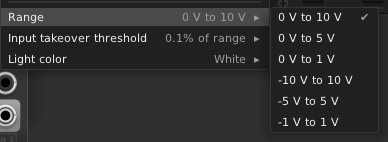
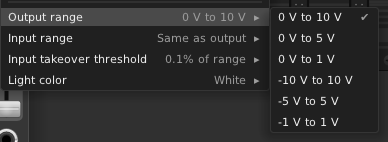
Fader input range, Buttons off color
Fader/Faders2/Faders4: new per-fader "Input range" (default "Same as
output"), so e.g. a 0..10 V MIDI CC can sweep a -10..10 V fader end to
end; "Range" renamed "Output range". The takeover threshold is now a
fraction of the input range. Saved as "inputRange"; older patches keep
the previous behavior.

Buttons: "Light color" split into "On color" and "Off color". Off color
defaults to the existing faint glow of the on color, or any of the eight
colors at full brightness. Saved as "offColor".

README, module descriptions and menu screenshots updated.

diff --git a/src/Fader.cpp b/src/Fader.cpp
@@ -12,8 +12,8 @@
 // purely cosmetic, same as PadX's.
 //
 // Fader, Faders2 and Faders4 are the same module (FaderBank) with 1, 2 or 4
-// identical 3HP columns; each column has its own label, range and takeover
-// threshold, set from its slider's right-click menu.
+// identical 3HP columns; each column has its own label, output range, input
+// range and takeover threshold, set from its slider's right-click menu.
 
 struct FaderRange {
     float min;
@@ -31,7 +31,7 @@ static const FaderRange FADER_RANGES[] = {
 };
 static const int NUM_FADER_RANGES = sizeof(FADER_RANGES) / sizeof(FADER_RANGES[0]);
 
-// How far the input has to move (as a fraction of the selected range) before
+// How far the input has to move (as a fraction of its input range) before
 // it takes the fader back from the slider. A 7-bit MIDI CC step is 1/127 of
 // the range (~0.79%), so every option but the last still catches a single
 // CC step.
@@ -59,6 +59,9 @@ static const int FADER_PROCESS_DIVISION = 32;
 // `i` all belong to fader `i` (so a 1-fader bank keeps Fader's original ids).
 struct FaderChannel {
     int rangeIndex = 0;
+    // Range the input is read in: -1 = same as the output (`rangeIndex`), so
+    // e.g. a 0..10 V MIDI CC can sweep a -10..10 V fader end to end.
+    int inputRangeIndex = -1;
     int thresholdIndex = 1;
     FaderTakeover takeover;
     // Set by the slider widget (UI thread) while the mouse holds it.
@@ -126,6 +129,15 @@ struct FaderBank : Module {
         }
     }
 
+    const FaderRange& inputRange(int i) const {
+        int k = channels[i].inputRangeIndex;
+        return k < 0 ? range(i) : FADER_RANGES[k];
+    }
+
+    void setInputRange(int i, int index) {
+        channels[i].inputRangeIndex = clamp(index, -1, NUM_FADER_RANGES - 1);
+    }
+
     void setThreshold(int i, int index) {
         channels[i].thresholdIndex = clamp(index, 0, NUM_FADER_THRESHOLDS - 1);
     }
@@ -160,11 +172,12 @@ struct FaderBank : Module {
         for (int i = 0; i < numFaders; i++) {
             FaderChannel& ch = channels[i];
             const FaderRange& r = range(i);
+            const FaderRange& in = inputRange(i);
             float span = r.max - r.min;
             float slider = params[i].getValue();
             float applied = ch.takeover.step(slider, ch.dragging,
                 inputs[i].isConnected(), inputs[i].getVoltage(),
-                r.min, r.max, FADER_THRESHOLDS[ch.thresholdIndex].fraction * span);
+                in.min, in.max, FADER_THRESHOLDS[ch.thresholdIndex].fraction * (in.max - in.min));
             if (applied != slider) {
                 params[i].setValue(applied);
             }
@@ -183,6 +196,7 @@ struct FaderBank : Module {
             ch.label.toJson(faderJ);
             json_object_set_new(faderJ, "color", json_integer(ch.colorIndex));
             json_object_set_new(faderJ, "range", json_integer(ch.rangeIndex));
+            json_object_set_new(faderJ, "inputRange", json_integer(ch.inputRangeIndex));
             json_object_set_new(faderJ, "threshold", json_integer(ch.thresholdIndex));
             json_array_append_new(fadersJ, faderJ);
         }
@@ -198,6 +212,9 @@ struct FaderBank : Module {
         if (json_t* j = json_object_get(faderJ, "range")) {
             setRange(i, json_integer_value(j));
         }
+        // Absent in patches saved before it existed: same as the output.
+        json_t* inputRangeJ = json_object_get(faderJ, "inputRange");
+        setInputRange(i, inputRangeJ ? json_integer_value(inputRangeJ) : -1);
         if (json_t* j = json_object_get(faderJ, "threshold")) {
             setThreshold(i, json_integer_value(j));
         }
@@ -232,20 +249,26 @@ struct Faders4 : FaderBank {
 };
 
 #ifndef HEADLESS
-// The Range / Input takeover threshold / Light color submenus of fader `i`, shared by its
+// The Output range / Input range / Input takeover threshold / Light color submenus of fader `i`, shared by its
 // slider's right-click menu and (on the single Fader) the module's own.
 static void appendFaderMenu(Menu* menu, FaderBank* bank, int i) {
     std::vector<std::string> rangeNames;
     for (int k = 0; k < NUM_FADER_RANGES; k++) {
         rangeNames.push_back(FADER_RANGES[k].name);
     }
+    std::vector<std::string> inputRangeNames = {"Same as output"};
+    inputRangeNames.insert(inputRangeNames.end(), rangeNames.begin(), rangeNames.end());
     std::vector<std::string> thresholdNames;
     for (int k = 0; k < NUM_FADER_THRESHOLDS; k++) {
         thresholdNames.push_back(FADER_THRESHOLDS[k].name);
     }
-    menu->addChild(createIndexSubmenuItem("Range", rangeNames,
+    menu->addChild(createIndexSubmenuItem("Output range", rangeNames,
         [=]() { return bank->channels[i].rangeIndex; },
         [=](int k) { bank->setRange(i, k); }
+    ));
+    menu->addChild(createIndexSubmenuItem("Input range", inputRangeNames,
+        [=]() { return bank->channels[i].inputRangeIndex + 1; },
+        [=](int k) { bank->setInputRange(i, k - 1); }
     ));
     menu->addChild(createIndexSubmenuItem("Input takeover threshold", thresholdNames,
         [=]() { return bank->channels[i].thresholdIndex; },

diff --git a/src/Buttons.cpp b/src/Buttons.cpp
@@ -31,6 +31,9 @@ struct ButtonChannel {
     AlLabel label;
     // Index into AL_LIGHT_COLOR_NAMES (AlLightColor.hpp).
     int colorIndex = 0;
+    // Color while off: -1 = a faint glow of the on color (default), else an
+    // index into AL_LIGHT_COLOR_NAMES, lit as brightly as the on color.
+    int offColorIndex = -1;
 };
 
 struct Buttons : Module {
@@ -99,8 +102,11 @@ struct Buttons : Module {
             outputs[i].setVoltage(logic.step(params[i].getValue() > 0.5f, inputs[i].getVoltage(), args.sampleTime));
             if (updateLights) {
                 // Off isn't fully dark: a faint glow in the button's own
-                // color shows where (and which color) it is.
-                lights[i].setBrightness(logic.state ? 1.f : 0.08f);
+                // color shows where (and which color) it is — or, with an
+                // off color, that color at full brightness (the widget picks
+                // the color, see AlLitButton).
+                bool glow = !logic.state && channels[i].offColorIndex < 0;
+                lights[i].setBrightness(glow ? 0.08f : 1.f);
             }
         }
     }
@@ -113,6 +119,7 @@ struct Buttons : Module {
             json_t* buttonJ = json_object();
             ch.label.toJson(buttonJ);
             json_object_set_new(buttonJ, "color", json_integer(ch.colorIndex));
+            json_object_set_new(buttonJ, "offColor", json_integer(ch.offColorIndex));
             // A momentary state is only ever "held right now" — not saved.
             json_object_set_new(buttonJ, "state", json_boolean(ch.logic.mode != BUTTON_MOMENTARY && ch.logic.state));
             json_array_append_new(buttonsJ, buttonJ);
@@ -131,6 +138,9 @@ struct Buttons : Module {
             ButtonLogic& logic = channels[i].logic;
             channels[i].label.fromJson(buttonJ);
             channels[i].colorIndex = alLightColorFromJson(json_object_get(buttonJ, "color"));
+            // Absent in patches saved before it existed: the faint glow.
+            json_t* offColorJ = json_object_get(buttonJ, "offColor");
+            channels[i].offColorIndex = offColorJ ? clamp((int) json_integer_value(offColorJ), -1, AL_NUM_LIGHT_COLORS - 1) : -1;
             // The mode switch's own value is already loaded (Rack restores
             // params before dataFromJson); apply it before the saved state so
             // process() doesn't see a mode change and clear it.
@@ -166,7 +176,7 @@ struct AlButtonLight : TBase {
 };
 
 // Rack's own LightButton (componentlibrary.hpp) centers the light on the
-// button. Its right-click menu holds the light color and Toggle trigger's
+// button. Its right-click menu holds the on/off colors and Toggle trigger's
 // light resync.
 struct AlLitButton : LightButton<AlButton, AlButtonLight<WhiteLight>> {
     Buttons* buttons() {
@@ -177,7 +187,9 @@ struct AlLitButton : LightButton<AlButton, AlButtonLight<WhiteLight>> {
     void step() override {
         LightButton<AlButton, AlButtonLight<WhiteLight>>::step();
         if (Buttons* mod = buttons()) {
-            alApplyLightColor(light, mod->channels[paramId].colorIndex);
+            const ButtonChannel& ch = mod->channels[paramId];
+            bool off = !ch.logic.state && ch.offColorIndex >= 0;
+            alApplyLightColor(light, off ? ch.offColorIndex : ch.colorIndex);
         }
     }
 
@@ -190,8 +202,15 @@ struct AlLitButton : LightButton<AlButton, AlButtonLight<WhiteLight>> {
         menu->addChild(new MenuSeparator);
         alAppendLightColorMenu(menu,
             [=]() { return mod->channels[i].colorIndex; },
-            [=](int k) { mod->channels[i].colorIndex = k; }
+            [=](int k) { mod->channels[i].colorIndex = k; },
+            "On color"
         );
+        std::vector<std::string> offColorNames = {"Faint glow of on color"};
+        offColorNames.insert(offColorNames.end(), AL_LIGHT_COLOR_NAMES, AL_LIGHT_COLOR_NAMES + AL_NUM_LIGHT_COLORS);
+        menu->addChild(createIndexSubmenuItem("Off color", offColorNames,
+            [=]() { return mod->channels[i].offColorIndex + 1; },
+            [=](int k) { mod->channels[i].offColorIndex = k - 1; }
+        ));
         if (mod->channels[i].logic.mode == BUTTON_TOGGLE_TRIGGER) {
             // Resync the light with a downstream switch toggled from
             // elsewhere, without sending it a trigger.

diff --git a/src/FaderTakeover.hpp b/src/FaderTakeover.hpp
@@ -7,7 +7,7 @@
 //
 // Two owners, and whichever one moved last keeps the fader:
 //   - the input takes over only once its voltage has moved away, by more
-//     than `threshold` (in volts), from the value it had when it last lost
+//     than `threshold` (in input volts), from the value it had when it last lost
 //     the fader (or was first seen). A cable that's merely connected, or a
 //     constant voltage, never moves the fader on its own;
 //   - once in control, the input is followed continuously (so a slow ramp,
@@ -37,7 +37,8 @@ struct FaderTakeover {
     // `slider`: current normalized slider position [0, 1]. `dragging`: the
     // slider is held by the mouse right now (the input never wins while it's
     // held). `inputConnected`/`inputVoltage`: the CV input. `rangeMin`/
-    // `rangeMax`: the voltage range shared by the input and the output.
+    // `rangeMax`: the voltage range the input is read in (the output's own
+    // range is applied by the caller, from the returned position).
     // Returns the slider position to apply (unchanged unless the input owns
     // the fader).
     float step(float slider, bool dragging, bool inputConnected, float inputVoltage,

diff --git a/tests/FaderTakeoverTest.cpp b/tests/FaderTakeoverTest.cpp
@@ -114,6 +114,20 @@ static void bipolarRangeAndClamp() {
     CHECK(approx(r.slider, 0.f));
 }
 
+// A 0..10 V MIDI CC driving a -10..10 V fader: the input range alone sets
+// the position, the caller maps it onto the output range.
+static void unipolarInputFullTravel() {
+    Rig r;
+    r.slider = 0.5f;
+    r.run(true, 0.f);
+    r.run(true, 10.f);
+    CHECK(approx(r.slider, 1.f));
+    r.run(true, 0.f);
+    CHECK(approx(r.slider, 0.f));
+    r.run(true, 5.f);
+    CHECK(approx(-10.f + r.slider * 20.f, 0.f));
+}
+
 static void disconnectForgetsReference() {
     Rig r;
     r.run(true, 2.f);
@@ -135,6 +149,7 @@ int main() {
     draggingBlocksInput();
     thresholdFiltersNoise();
     bipolarRangeAndClamp();
+    unipolarInputFullTravel();
     disconnectForgetsReference();
     if (failures) {
         std::printf("%d failure(s)\n", failures);

diff --git a/src/AlLightColor.hpp b/src/AlLightColor.hpp
@@ -34,8 +34,9 @@ inline int alLightColorFromJson(json_t* j) {
 }
 
 #ifndef HEADLESS
-inline void alAppendLightColorMenu(Menu* menu, std::function<int()> get, std::function<void(int)> set) {
-    menu->addChild(createIndexSubmenuItem("Light color",
+inline void alAppendLightColorMenu(Menu* menu, std::function<int()> get, std::function<void(int)> set,
+                                   const std::string& text = "Light color") {
+    menu->addChild(createIndexSubmenuItem(text,
         std::vector<std::string>(AL_LIGHT_COLOR_NAMES, AL_LIGHT_COLOR_NAMES + AL_NUM_LIGHT_COLORS),
         get, set
     ));

diff --git a/README.md b/README.md
@@ -53,7 +53,7 @@ Right-click any Aluminium module to open its context menu. One entry is identica
 
 ![Aluminium theme submenu](docs/images/Menu_Theme.png)
 
-Zones adds two more entries of its own (documented under [Zones](#zones)), and Pads adds three more (documented under [Pads](#pads)). Fader adds three more; Faders2 and Faders4 have the same three per fader, on each slider's own right-click menu instead (see [Context menus](#context-menus)), and Buttons has a *Light color* entry (plus *Flip light (no trigger)* in Toggle trigger mode) on each button's own right-click menu (see [Buttons](#buttons)). PadX has no other entries — its label is edited directly on the panel, not via the menu.
+Zones adds two more entries of its own (documented under [Zones](#zones)), and Pads adds three more (documented under [Pads](#pads)). Fader adds four more; Faders2 and Faders4 have the same four per fader, on each slider's own right-click menu instead (see [Context menus](#context-menus)), and Buttons has *On color* and *Off color* entries (plus *Flip light (no trigger)* in Toggle trigger mode) on each button's own right-click menu (see [Buttons](#buttons)). PadX has no other entries — its label is edited directly on the panel, not via the menu.
 
 ## Shared conventions
 
@@ -235,9 +235,9 @@ Place it directly to the right of Pads — or to the right of another PadX alrea
 
 Vertical faders, like channel strips on a digital mixing desk: each slider's position is its output voltage, and its CV input — typically a MIDI CC from Core **MIDI-CV** or **MIDI-CC** — moves the slider itself, the way a motorized fader follows a recalled scene. The two never fight: **whichever moved last wins**.
 
-**Fader** (3HP) has one fader, **Faders2** (6HP) two and **Faders4** (12HP) four. Every fader is a complete, independent 3HP column — its own label, input, output, range and takeover threshold — and everything below applies to each of them; they only differ in where their settings live (see [Context menus](#context-menus) below).
+**Fader** (3HP) has one fader, **Faders2** (6HP) two and **Faders4** (12HP) four. Every fader is a complete, independent 3HP column — its own label, input, output, output and input ranges, and takeover threshold — and everything below applies to each of them; they only differ in where their settings live (see [Context menus](#context-menus) below).
 
-- **The input takes over only when it changes.** Patching a cable in, or a voltage that holds still, never moves the slider on its own. Once the input has moved (by more than the takeover threshold, see below), the slider follows it continuously, to the exact position matching its voltage in the selected range.
+- **The input takes over only when it changes.** Patching a cable in, or a voltage that holds still, never moves the slider on its own. Once the input has moved (by more than the takeover threshold, see below), the slider follows it continuously, to the exact position matching its voltage in the input range.
 - **Touching the slider takes it back.** While you hold the slider, the input is ignored. After you let go, the slider keeps your position until the input changes again. The same goes for anything else that moves the slider: a double-click reset, a MIDI-MAP / stoermelder MIDI-CAT mapping, a preset, a randomize.
 - **After a patch load**, the slider keeps its saved position until the input changes (a MIDI-CV CC output reads 0V until its first message arrives, so following it right away would slam the fader to 0).
 
@@ -246,24 +246,27 @@ Vertical faders, like channel strips on a digital mixing desk: each slider's pos
 **Fader cap** — a lit band across the cap marks the slider's position, so it stays readable even zoomed out.
 
 **Inputs**
-- **CV** (one per fader) — the voltage that moves the slider, read in the same range as the output (clamped to it).
+- **CV** (one per fader) — the voltage that moves the slider, read in the *Input range* (by default the same as the output's), clamped to it.
 
 **Outputs**
-- **CV** (one per fader) — the slider's position, in the selected range.
+- **CV** (one per fader) — the slider's position, in the output range (the slider shows its value in volts of that range).
 
 **Settings** (per fader)
-- **Range** — *0 V to 10 V* (default), *0 V to 5 V*, *0 V to 1 V*, *-10 V to 10 V*, *-5 V to 5 V*, *-1 V to 1 V*. In a bipolar range, 0 V is the middle of the travel, and a double-click resets the slider there. Switching range keeps the slider where it is and rescales its voltage.
-- **Input takeover threshold** — how far the input has to move, from where it was when it last lost the slider, before it takes over: *Any change*, *0.1% of range* (default), *0.4% of range* (half a 7-bit MIDI CC step), *2% of range*. Raise it if a noisy source keeps stealing the slider. Once the input is in control, it is followed by any amount.
+- **Output range** — the range of the output, and of the slider itself: *0 V to 10 V* (default), *0 V to 5 V*, *0 V to 1 V*, *-10 V to 10 V*, *-5 V to 5 V*, *-1 V to 1 V*. In a bipolar range, 0 V is the middle of the travel, and a double-click resets the slider there. Switching range keeps the slider where it is and rescales its voltage.
+- **Input range** — the range the input is read in: *Same as output* (default), or any of the six ranges above. The bottom of the input range moves the slider to the bottom of its travel, the top to the top, whatever the output range — e.g. a MIDI CC (0 V to 10 V from MIDI-CV / MIDI-CC) sweeps the fader end to end with *Output range* set to *-10 V to 10 V* and *Input range* set to *0 V to 10 V*. A 7-bit CC has no exact middle value (CC 64 gives +0.08 V in that example); double-click the slider for an exact 0 V.
+- **Input takeover threshold** — how far the input has to move, from where it was when it last lost the slider, before it takes over: *Any change*, *0.1% of range* (default), *0.4% of range* (half a 7-bit MIDI CC step), *2% of range* — of the input range. Raise it if a noisy source keeps stealing the slider. Once the input is in control, it is followed by any amount.
 - **Light color** — the color of the lit band on the fader cap: *White* (default), *Red*, *Orange*, *Yellow*, *Green*, *Cyan*, *Blue*, *Purple* — e.g. to tell faders apart at a glance.
 
 ### Context menus
 
-The three settings are the same menu on every variant — only where it opens differs:
+The four settings are the same menu on every variant — only where it opens differs:
 
 - **Fader** — in the module's context menu (right-click the panel), and also in the slider's own right-click menu.
 - **Faders2 / Faders4** — each fader's settings are in **its slider's** right-click menu, below Rack's usual slider entries. The module's own context menu only has the Aluminium theme.
 
-![Range submenu](docs/images/Fader_Menu_Range.png)
+![Output range submenu](docs/images/Fader_Menu_Range.png)
+
+![Input range submenu](docs/images/Fader_Menu_InputRange.png)
 
 ![Input takeover threshold submenu](docs/images/Fader_Menu_InputTakeoverThreshold.png)
 
@@ -284,9 +287,15 @@ Two lit buttons stacked in one 3HP panel, in the same spirit as [Fader](#fader-f
 
 Switching between Latch and Toggle trigger keeps the light; any change to or from Momentary turns it off. A gate already high when a patch loads isn't taken as a press.
 
-**Light color** — on each button's own right-click menu: *White* (default), *Red*, *Orange*, *Yellow*, *Green*, *Cyan*, *Blue*, *Purple*. Off, a button keeps a faint glow in its color, so you can still see where it is and which one it is.
+![A button's right-click menu in Toggle trigger mode](docs/images/Buttons_Menu_ToggleTrigger.png)
 
-![A button's right-click menu (Toggle trigger mode)](docs/images/Buttons_Menu.png)
+**On color** / **Off color** — on each button's own right-click menu.
+- **On color** — the button's color while on: *White* (default), *Red*, *Orange*, *Yellow*, *Green*, *Cyan*, *Blue*, *Purple*.
+- **Off color** — *Faint glow of on color* (default): off, the button keeps a faint glow in its on color, so you can still see where it is and which one it is. Or any of the eight colors above, lit as brightly as the on color — e.g. red when off and green when on.
+
+![On color submenu](docs/images/Buttons_Menu_OnColor.png)
+
+![Off color submenu](docs/images/Buttons_Menu_OffColor.png)
 
 **Label** — same field as [Fader](#fader-faders2-and-faders4)'s: typed by hand (6 characters), never filled in automatically; it also names the button and its ports (*Button 1* / *Button 2* while empty).
 
